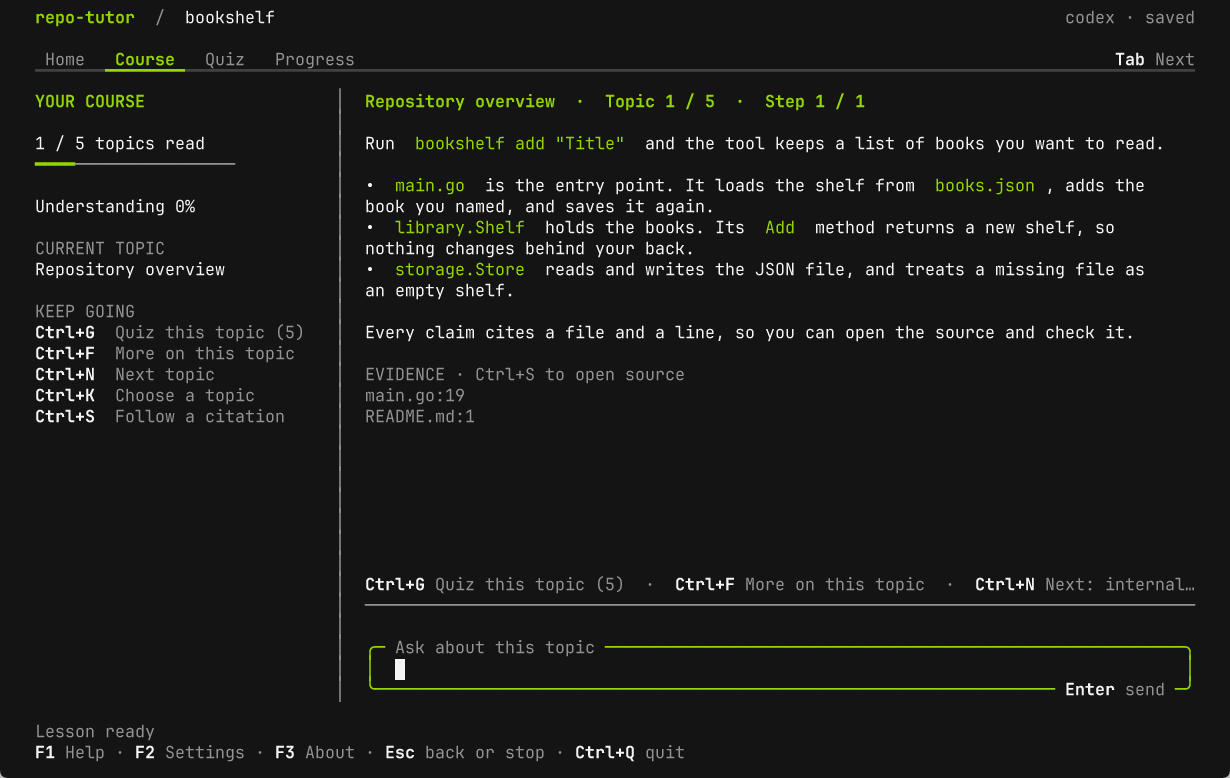
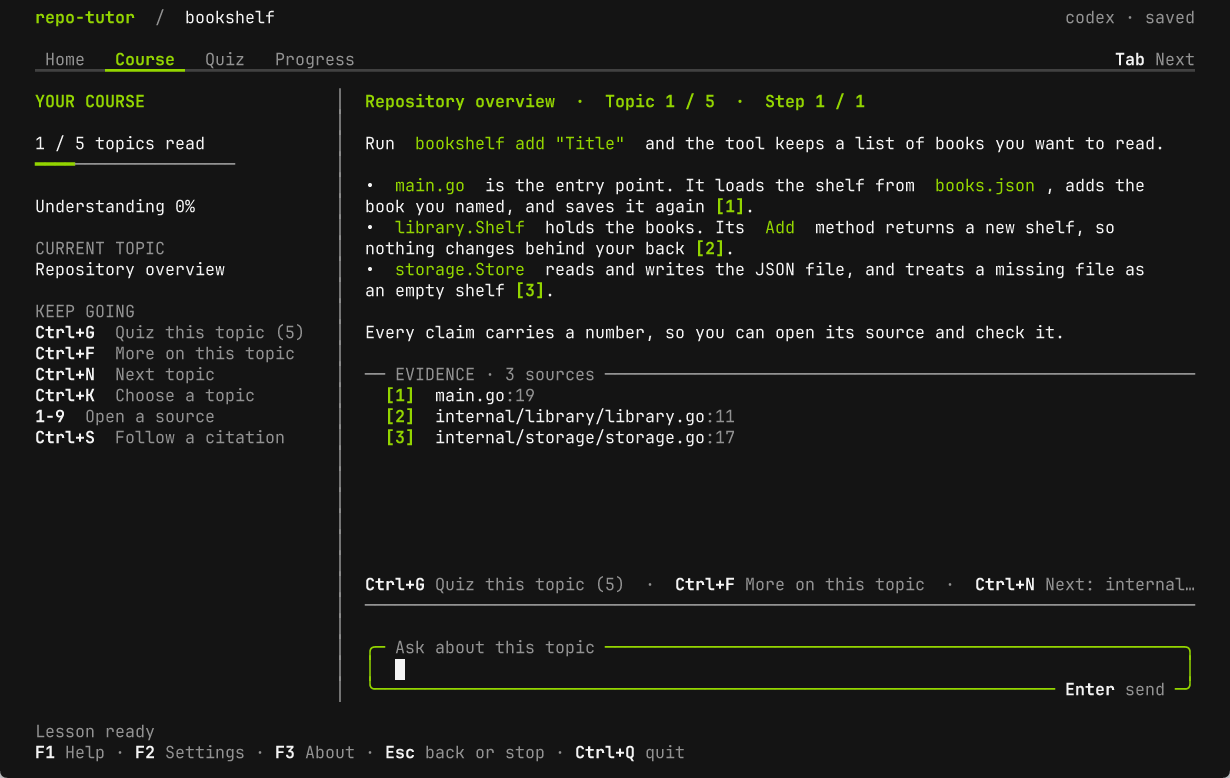
Show numbered markers and evidence in the screenshot lesson

diff --git a/acceptance/testdata/agent/main.go b/acceptance/testdata/agent/main.go
@@ -72,7 +72,7 @@ func main() {
 	if os.Getenv("FAKE_AGENT_SCENARIO") == "screenshots" {
 		reply["explanation"] = screenshotLesson
 		reply["question"] = "Why does Add return a new Shelf and not change the one it was given?"
-		reply["citations"] = []map[string]any{{"path": "main.go", "line": 19}, {"path": "README.md", "line": 1}}
+		reply["citations"] = []map[string]any{{"path": "main.go", "line": 19}, {"path": "internal/library/library.go", "line": 11}, {"path": "internal/storage/storage.go", "line": 17}}
 	}
 	arguments, _ := json.Marshal(os.Args[1:])
 	file, err := os.OpenFile("invocations.jsonl", os.O_CREATE|os.O_APPEND|os.O_WRONLY, 0600)
@@ -102,4 +102,4 @@ func citedPath() string {
 	return "main.go"
 }
 
-const screenshotLesson = "Run `bookshelf add \"Title\"` and the tool keeps a list of books you want to read.\n\n- `main.go` is the entry point. It loads the shelf from `books.json`, adds the book you named, and saves it again.\n- `library.Shelf` holds the books. Its `Add` method returns a new shelf, so nothing changes behind your back.\n- `storage.Store` reads and writes the JSON file, and treats a missing file as an empty shelf.\n\nEvery claim cites a file and a line, so you can open the source and check it."
+const screenshotLesson = "Run `bookshelf add \"Title\"` and the tool keeps a list of books you want to read.\n\n- `main.go` is the entry point. It loads the shelf from `books.json`, adds the book you named, and saves it again [1].\n- `library.Shelf` holds the books. Its `Add` method returns a new shelf, so nothing changes behind your back [2].\n- `storage.Store` reads and writes the JSON file, and treats a missing file as an empty shelf [3].\n\nEvery claim carries a number, so you can open its source and check it."

diff --git a/acceptance/screenshots_test.go b/acceptance/screenshots_test.go
@@ -122,7 +122,7 @@ func TestScreenshots(t *testing.T) {
 		if err := terminal.Press("Enter"); err != nil {
 			t.Fatal(err)
 		}
-		waitForText(t, terminal, "Every claim cites a file")
+		waitForText(t, terminal, "Every claim carries a number")
 		capture("course")
 	}
 }
